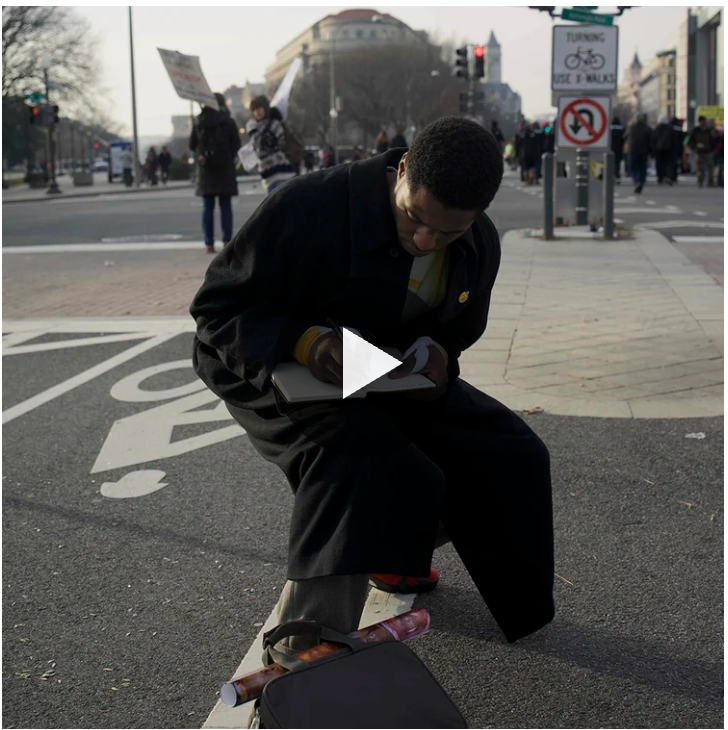
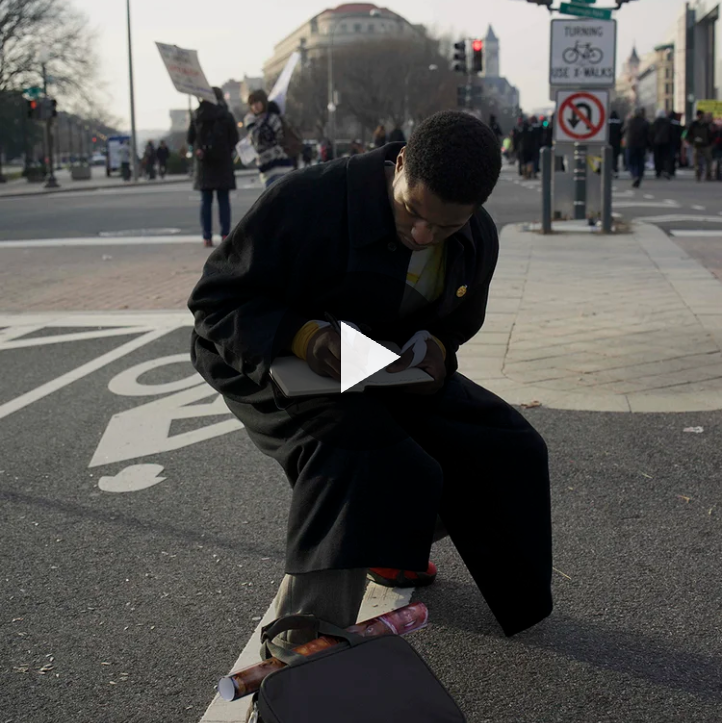
Griglia: font didascalie 10px Times New Roman, thumbnail Video Book senza bande bianche

diff --git a/static/site/index.html b/static/site/index.html
@@ -4198,10 +4198,12 @@
     }
     #sculptures-grid .sc-caption p {
       font-family: 'Times New Roman', Times, serif;
-      font-size: 1.3rem;
+      font-size: 10px;
+      font-weight: 400;
+      letter-spacing: 0.4px;
       padding: 0;
       margin: 0;
-      line-height: 1.4;
+      line-height: 1.5;
     }
     #sculptures-grid .sc-caption p.sc-desc {
       color: #aaa;
@@ -11469,7 +11471,7 @@ function scBuildGrid() {
       imgEl.src = '/static/site/images/video-book-thumb.png';
       imgEl.alt = img.title;
       imgEl.loading = 'lazy';
-      imgEl.style.cssText = 'position:absolute;top:0;left:0;width:100%;height:100%;object-fit:cover;';
+      imgEl.style.cssText = 'position:absolute;top:0;left:0;width:100%;height:100%;object-fit:cover;object-position:center center;';
       wrap.appendChild(imgEl);
       // Icona play sovrapposta
       const playIcon = document.createElement('div');
